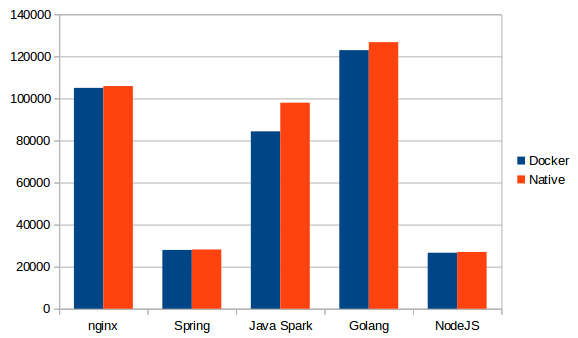
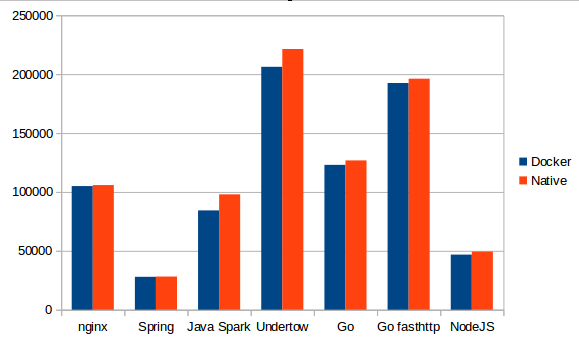
* speedup NodeJS * Added Untertow * Added Golang fasthttp

diff --git a/undertow/src/main/java/hello/Hello.java b/undertow/src/main/java/hello/Hello.java
@@ -1,0 +1,23 @@
+package hello;
+
+import io.undertow.Undertow;
+import io.undertow.server.HttpHandler;
+import io.undertow.server.HttpServerExchange;
+import io.undertow.util.Headers;
+
+public class Hello {
+
+    public static void main(final String[] args) {
+        Undertow server = Undertow.builder()
+                .addHttpListener(8080, "localhost")
+                .setHandler(new HttpHandler() {
+                    @Override
+                    public void handleRequest(final HttpServerExchange exchange) throws Exception {
+                        exchange.getResponseHeaders().put(Headers.CONTENT_TYPE, "text/plain");
+                        exchange.getResponseSender().send("Hello World");
+                    }
+                }).build();
+        server.start();
+    }
+
+}

diff --git a/fasthttp/main.go b/fasthttp/main.go
@@ -1,0 +1,13 @@
+package main
+
+import (
+	"github.com/valyala/fasthttp"
+)
+
+func main() {
+
+	fasthttp.ListenAndServe(":8080", func(ctx *fasthttp.RequestCtx) {
+		ctx.Response.Header.Set("Content-Type", "text/plain")
+		ctx.WriteString("Hello World")
+	})
+}

diff --git a/README.md b/README.md
@@ -4,22 +4,27 @@ Mini bechmark, comparing the performance HTTP 'hello world' on different stacks:
 * NGINX 1.11.5
 * Java Spring-Boot 1.4.2, Oracle JDK 8
 * Java Spark Framework
+* Java Undertow
 * Golang 1.7
+* Golang 1.7 with [Fasthttp](https://github.com/valyala/fasthttp)
 * NodeJS 7.2
 
 # Results
 
 ![Result](result.png)
 
-| Framework                | Req/sec (Docker)    | Req/sec (Native)
-|--------------------------|--------------------:|------------------:|
-| nginx                    | 105012              | 105844            |
-| Spring-Boot (first run)  | 15848               | 18138             |
-| Spring-Boot (second run) | 27942               | 28170             |
-| Java Spark (first run)   | 73393               | 87787             |
-| Java Spark (second run)  | 84323               | 97970             |
-| Golang                   | 122949              | 126742            |
-| NodeJS                   | 26628               | 27000             |
+| Framework                  | Req/sec (Docker)    | Req/sec (Native)
+|----------------------------|--------------------:|------------------:|
+| nginx                      | 105012              | 105844            |
+| Spring-Boot (first run)    | 15848               | 18138             |
+| Spring-Boot (second run)   | 27942               | 28170             |
+| Java Spark (first run)     | 73393               | 87787             |
+| Java Spark (second run)    | 84323               | 97970             |
+| Java Undertow (first run)  | 189187              | 199366            |
+| Java Undertow (second run) | 206238              | 221360            |
+| Golang                     | 122949              | 126742            |
+| Golang - fasthttp          | 192478              | 196169            |
+| NodeJS                     | 46803               | 49421             |
 
 
 # Test setup
